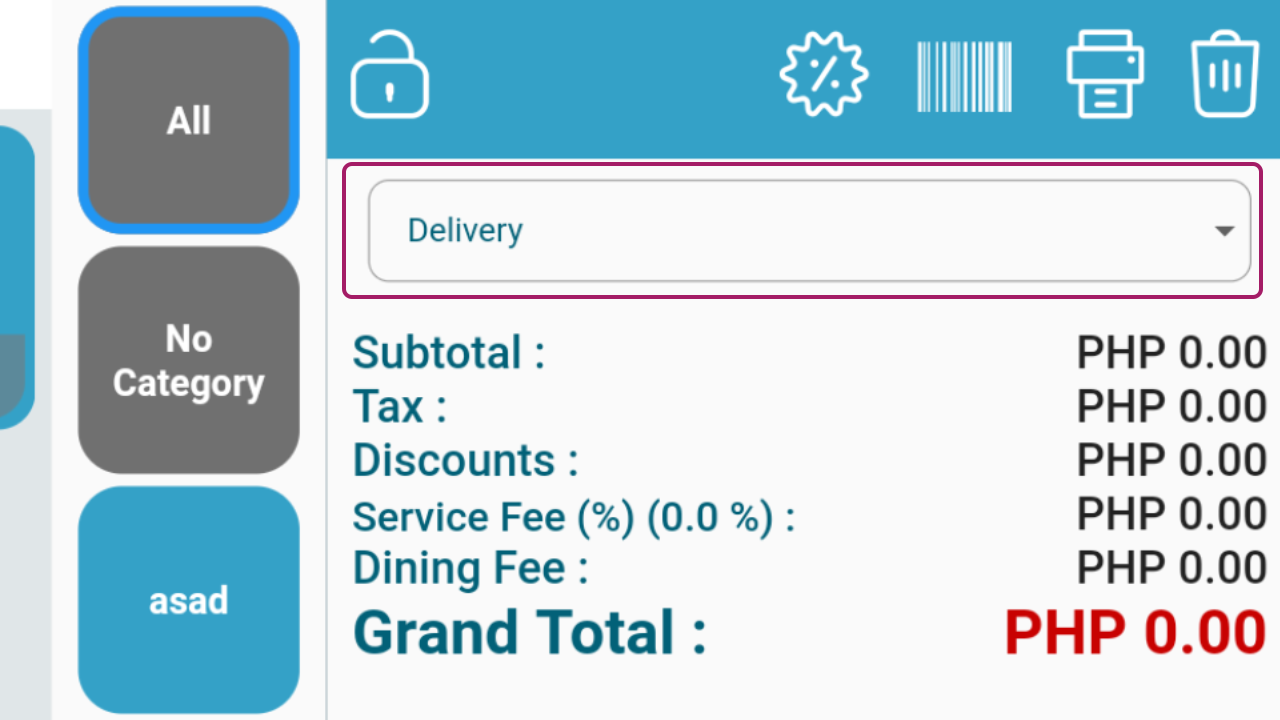
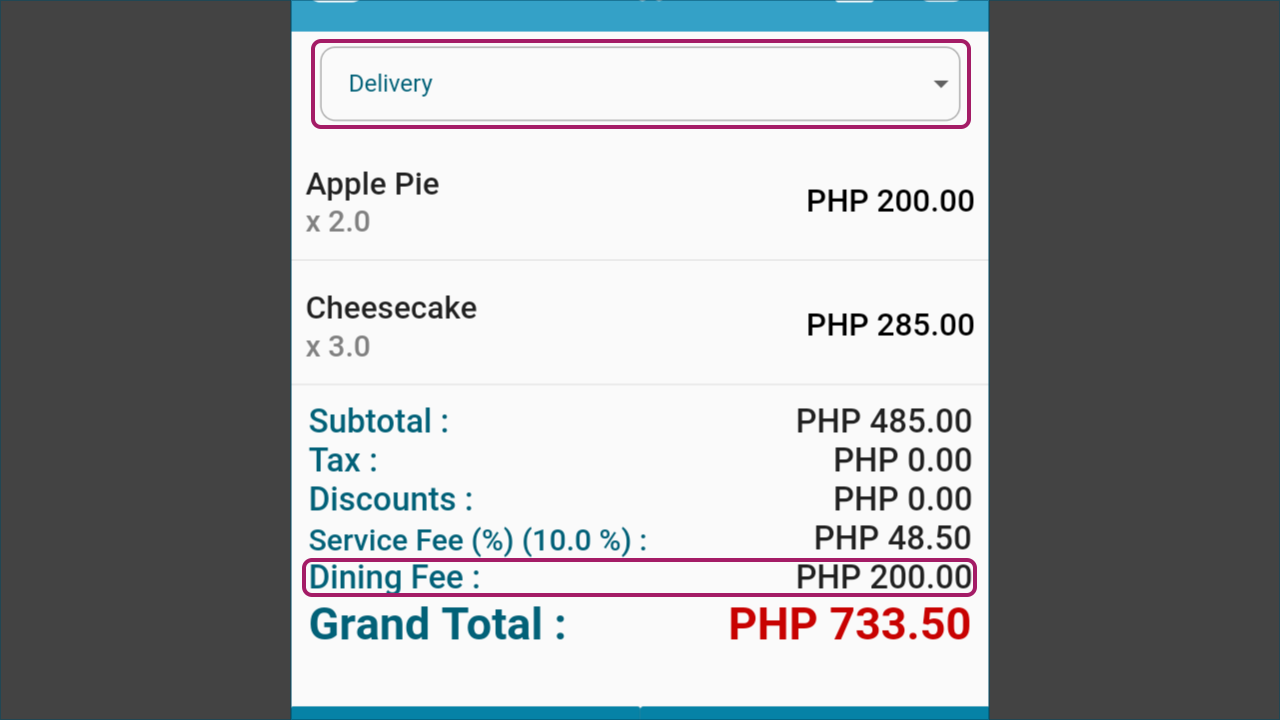
Added and Edited

diff --git a/docs/_sales/shift.md b/docs/_sales/shift.md
@@ -1,0 +1,104 @@
+# **Shift Management**
+
+KaHero POS lets you manage the shifts between your employees and track their working time and sales transactions. Activate the Shift Management features on <b>Settings</b> > <b>Features</b>. You can make transactions only when you have started a shift when this feature is activated.
+
+## **Starting a Shift**
+
+<p><img src="_content/_shift/1.png" alt="nav" width="480" height="270" style="float:left; margin-right:1rem"><br><br><br>1. On the <b>Navigation Menu</b> under <b>Shift Management</b>, select <b>Open Shift</b> to open your shift.</p>
+
+<br><br><br><br>
+
+<p><img src="_content/_shift/2.png" alt="nav" width="480" height="270" style="float:left; margin-right:1rem"><br><br><br>2. This is your Open Shift screen.
+<h5>
+<ol type="A" style="float:left; margin-left:1rem">
+<li>Input the count of cash onhand at the beginning of the shift</li>
+<li>Click <b>Start Shift</b> to start your shift.</li>
+</ol>
+</h5></p>
+
+<br><br><br><br><br>
+
+<p><img src="_content/_shift/4.png" alt="nav" width="480" height="270" style="float:left; margin-right:1rem"><br><br><br>3. Here is a summary report of the current shift.</p>
+
+<br><br><br><br><br>
+
+<p><img src="_content/_shift/3.png" alt="nav" width="480" height="270" style="float:left; margin-right:1rem"><br><br><br>4. After starting a shift, proceed to the <b>Register</b> to start making transactions.</p>
+
+<br><br><br><br>
+
+## **Cash Balancing**
+
+The <b>Cash Balancing</b> tab allows you to make adjustments to your on hand cash whether taking cash out or putting cash in. This is also where you make cash adjustments when your customers close their partial payments.
+
+<p><img src="_content/_shift/5.png" alt="nav" width="480" height="270" style="float:left; margin-right:1rem"><br><br>1. This is the <b>Cash Balancing</b> screen.
+<h5>
+<ol type="A" style="float:left; margin-left:1rem">
+<li>Specify the cash amount of your adjustment.</li>
+<li>Specify what the adjustment is for and take notes.</li>
+<li>If this is a transaction with customer, specify which customer.</li>
+<li>Select <b>Pay In</b> if you are putting cash in and<br><b>Pay Out</b> if you are taking cash out.</li>
+</ol>
+</h5>
+<br></p>
+
+<br><br><br><br>
+
+## **Ending a Shift**
+
+<p><img src="_content/_shift/6.png" alt="nav" width="480" height="270" style="float:left; margin-right:1rem"><br><br><br>1. On the <b>Navigation Menu</b> under <b>Shift Management</b>, select <b>Close Shift</b> to end your shift.</p>
+
+<br><br><br><br>
+
+<p><img src="_content/_shift/7.png" alt="nav" width="480" height="270" style="float:left; margin-right:1rem"><br><br><br>2. Click <b>End Shift</b>.</p>
+
+<br><br><br><br><br>
+
+
+<p><img src="_content/_shift/10.png" alt="nav" width="480" height="270" style="float:left; margin-right:1rem"><br><br><br>3. Specify the actual cash amount at the end of the shift. Click <b>End Shift</b> to end the shift.</p>
+
+<br><br><br><br>
+
+## **X-Reading**
+
+X-Reading is a sales and transaction report generated every beginning and end of a shift.
+
+<p><img src="_content/_shift/11.png" alt="nav" width="480" height="270" style="float:left; margin-right:1rem"><br><br><br>1. On the <b>Navigation Menu</b> under <b>Shift Management</b>, select <b>X-Reading</b>.</p>
+
+<br><br><br><br>
+
+<p><img src="_content/_shift/8.png" alt="nav" width="480" height="270" style="float:left; margin-right:1rem"><br><br><br>2. This is your X-Reading report screen.
+<h5>
+<ol type="A" style="float:left; margin-left:1rem">
+<li>Select a shift to view.</li>
+<li>Click <b>Print X Report</b> to print.</li>
+</ol>
+</h5></p>
+
+<br><br><br><br>
+
+<p><img src="_content/_shift/13.png" alt="nav" width="480" height="270" style="float:left; margin-right:1rem"><br><br><br>3. This is a sample X-Reading printed out report.</p>
+
+<br><br><br><br>
+
+## **Z-Reading**
+
+Z-Reading is a sales and transaction report generated everyday.
+
+<p><img src="_content/_shift/11.png" alt="nav" width="480" height="270" style="float:left; margin-right:1rem"><br><br><br>1. On the <b>Navigation Menu</b> under <b>Shift Management</b>, select <b>Z-Reading</b>.</p>
+
+<br><br><br><br>
+
+<p><img src="_content/_shift/9.png" alt="nav" width="480" height="270" style="float:left; margin-right:1rem"><br><br><br>2. This is your Z-Reading reportscreen.
+<h5>
+<ol type="A" style="float:left; margin-left:1rem">
+<li>Select a specific date to view.</li>
+<li>Click <b>Print Z Report</b> to print.</li>
+</ol>
+</h5>
+</p>
+
+<br><br><br><br>
+
+<p><img src="_content/_shift/12.png" alt="nav" width="480" height="270" style="float:left; margin-right:1rem"><br><br><br>3. This is a sample Z-Reading printed out report.</p>
+
+<br><br><br><br>

diff --git a/docs/_sales/modifier.md b/docs/_sales/modifier.md
@@ -1,0 +1,74 @@
+# **Item Modifiers**
+
+Item modifiers are item options that can be assigned to items. Examples are product fillings or toppings or add-ons in general.
+
+## **Creating Item Modifiers**
+
+Item modifiers can only be created on the back office of KaHero POS.
+
+<p><img src="_content/_modifier/1.png" alt="nav" width="480" height="270" style="float:left; margin-right:1rem"><br><br><br>1. On the <b>Navigation Menu</b>, select <b>Back Office</b> to access the back office. You can also go to <a href="https://app.kahero.co/">app.kahero.co.</a></p>
+
+<br><br><br><br>
+
+<p><img src="_content/_modifier/2.png" alt="nav" width="480" height="270" style="float:left; margin-right:1rem"><br><br><br>2. Log in to your KaHero POS account.</p>
+
+<br><br><br><br><br>
+
+<p><img src="_content/_modifier/3.png" alt="nav" width="480" height="270" style="float:left; margin-right:1rem"><br><br><br>3. You will be directed to KaHero's back office. On the <b>Navigation Menu</b> under <b>Listings</b>, select <b>Items</b>.
+
+<br><br><br><br>
+
+<p><img src="_content/_modifier/4.png" alt="nav" width="480" height="270" style="float:left; margin-right:1rem"><br><br><br>4. This is your item list. You can find your item name, price, options (if you set any), and modifiers (if you added any).</p>
+
+<br><br><br><br>
+
+<p><img src="_content/_modifier/6.png" alt="nav" width="480" height="270" style="float:left; margin-right:1rem"><br><br><br>5. On the <b>Modifiers</b> tab, click <b>New Modifier</b> to create a modifier.</p>
+
+<br><br><br><br><br>
+
+<p><img src="_content/_modifier/7.png" alt="nav" width="480" height="270" style="float:left; margin-right:1rem"><br><br><br>6. Label your modifier. You can label it as the parent product/s or item category you want to assign the modifiers to. (Ex. If you want to add modifiers to your milktea category, label it as "Milktea".)</p>
+
+<br><br><br>
+
+<p><img src="_content/_modifier/8.png" alt="nav" width="480" height="270" style="float:left; margin-right:1rem"><br><br>7. Add details to your modifier.
+<h5>
+<ol type="A" style="float:left; margin-left:1rem">
+<li>This is your modifier's label.</li>
+<li>Add a layer and label it according to the category of the modifier.<br>(Ex. For milktea products, you can label a layer as "Add-Ons".)</li>
+<li>These are your modifiers. Specify the modifier and their price.<br>Click <b>Add Option</b> to add another modifier.</li>
+</ol>
+</h5>
+</p>
+
+<br><br><br><br><br><br>
+
+<p><img src="_content/_modifier/9.png" alt="nav" width="480" height="270" style="float:left; margin-right:1rem"><br><br><br>8. After adding your modifiers, click <b>Save Changes</b> to save your modifiers.</p>
+
+<br><br><br>
+
+## **Adding Item Modifiers**
+
+<p><img src="_content/_modifier/5.png" alt="nav" width="480" height="270" style="float:left; margin-right:1rem"><br><br><br>1. On the <b>Items</b> tab, select <b>Set Modifier</b> beside the item you want to add modifiers to.</p>
+
+<br><br><br><br>
+
+<p><img src="_content/_modifier/10.png" alt="nav" width="480" height="270" style="float:left; margin-right:1rem"><br><br><br>2. Select the modifier you want to set on the selected item. Click <b>Save</b>.</p>
+
+<br><br><br><br>
+
+## **Applying Item Modifiers**
+
+<p><img src="_content/_modifier/11.png" alt="nav" width="480" height="270" style="float:left; margin-right:1rem"><br><br><br>1. This is how your items with modifier will show on the register.</p>
+
+<br><br><br><br><br>
+
+<p><img src="_content/_modifier/12.png" alt="nav" width="480" height="270" style="float:left; margin-right:1rem"><br><br><br>2. A pop-up will show up asking you whether your customer would like to add some add-ons. Select <b>Yes</b>.</p>
+
+<br><br><br><br>
+
+<p><img src="_content/_modifier/13.png" alt="nav" width="480" height="270" style="float:left; margin-right:1rem"><br><br><br>3. This is your modifiers screen. Select which modifier your customer wants. You can select several choices. Click <b>Add Item Add-ons</b>.</p>
+
+<br><br><br>
+<p><img src="_content/_modifier/14.png" alt="nav" width="480" height="270" style="float:left; margin-right:1rem"><br><br><br>4. This is how your item and its modifier will be shown on your ticket screen. Proceed to payment.</p>
+
+<br><br><br><br>

diff --git a/docs/_sales/refunds.md b/docs/_sales/refunds.md
@@ -34,7 +34,7 @@ KaHero POS allows you to send and email receipts whenever your customers may req
 
 <p><img src="_content/_refunds/7.png" alt="nav" width="480" height="270" style="float:left; margin-right:1rem"><br><br><br>3. A pop-up asking for the email receipt's recipient will appear. Input the recipient of the email. Click <b>Okay</b>.</p>
 
-<br><br><br><br>
+<br><br><br>
 
 ## **Reprinting Receipts**
 
@@ -46,8 +46,24 @@ KaHero POS allows you to send and email receipts whenever your customers may req
 
 <p><img src="_content/_refunds/8.png" alt="nav" width="480" height="270" style="float:left; margin-right:1rem"><br><br><br><br>2. Select <b> Reprint Receipt</b> and the receipt will automatically print.</p>
 
+<br><br><br>
+
+## **Reprinting Orders**
+
+<p><img src="_content/_refunds/5.png" alt="nav" width="480" height="270" style="float:left; margin-right:1rem"><br><br><br>1. On the <b>Receipts</b> screen, on the upper right, click on the three aligning dots to show a dropdown menu.</p>
+
 <br><br><br><br>
 
-<p><img src="_content/_refunds/7.png" alt="nav" width="480" height="270" style="float:left; margin-right:1rem"><br><br><br>3. A pop-up asking for the email receipt's recipient will appear. Input the recipient of the email. Click <b>Okay</b>.</p>
+<p><img src="_content/_refunds/9.png" alt="nav" width="480" height="270" style="float:left; margin-right:1rem"><br><br><br><br>2. Select <b> Reprint Order</b> and the receipt will automatically print the order.</p>
+
+<br><br>
+
+## **Reprinting Receipt & Order**
+
+<p><img src="_content/_refunds/5.png" alt="nav" width="480" height="270" style="float:left; margin-right:1rem"><br><br><br>1. On the <b>Receipts</b> screen, on the upper right, click on the three aligning dots to show a dropdown menu.</p>
+
+<br><br><br><br>
+
+<p><img src="_content/_refunds/10.png" alt="nav" width="480" height="270" style="float:left; margin-right:1rem"><br><br><br><br>2. Select <b>Reprint Both</b> to reprint both order and receipt.</p>
 
 <br><br><br><br>

diff --git a/docs/_sales/dining.md b/docs/_sales/dining.md
@@ -51,6 +51,10 @@ Dining option fees are fees assigned to your dining options which will be applie
 
 ## During Sales
 
-<p><img src="_content/_dining/7.png" alt="nav" width="480" height="270" style="float:left; margin-right:1rem"><br><br><br>1. On the <b>Register</b> screen, select your desired dining option on the drop down.</p>
+<p><img src="_content/_dining/7.png" alt="nav" width="480" height="270" style="float:left; margin-right:1rem"><br><br><br>1. On the <b>Register</b> screen, select your desired dining option on the drop down. The dining fee will reflect on the total screen.</p>
+
+<br><br><br><br>
+
+<p><img src="_content/_dining/diningoptions.gif" alt="nav" width="480" height="270" style="float:left; margin-right:1rem"><br><br><br>Here is a GIF showing changes in the dining fee when choosing different dining options.</p>
 
 <br><br><br><br>

diff --git a/docs/_sidebar.md b/docs/_sidebar.md
@@ -9,8 +9,10 @@
   - [Making Sales](/_gettingstarted/register.md)
 
 - Sales
+  - [Item Modifiers](/_sales/modifier.md)
   - [Selling Items by Weight](/_sales/weight.md)
   - [Selling Liquid Products](/_sales/liquids.md)
+  - [Shift Management](/_sales/shift.md)
   - [Using Barcode Mode](/_sales/barcode.md)
   - [Using Dining Options](/_sales/dining.md)
   - [Using Open Tickets](/_sales/opentickets.md)

diff --git a/docs/_sales/applyingdiscounts.md b/docs/_sales/applyingdiscounts.md
@@ -38,7 +38,7 @@ Once you have created and configured discounts, you can apply to your transactio
 </ol>
 </h5></p>
 
-<br><br><br><br><br><br>
+<br><br><br><br>
 
 <p><img src="_content/_applydiscounts/6.png" alt="nav" width="480" height="270" style="float:left; margin-right:1rem"><br><br><br>2. The discount amount should reflect on the ticket screen and change the price of the discounted item.</p>
 
